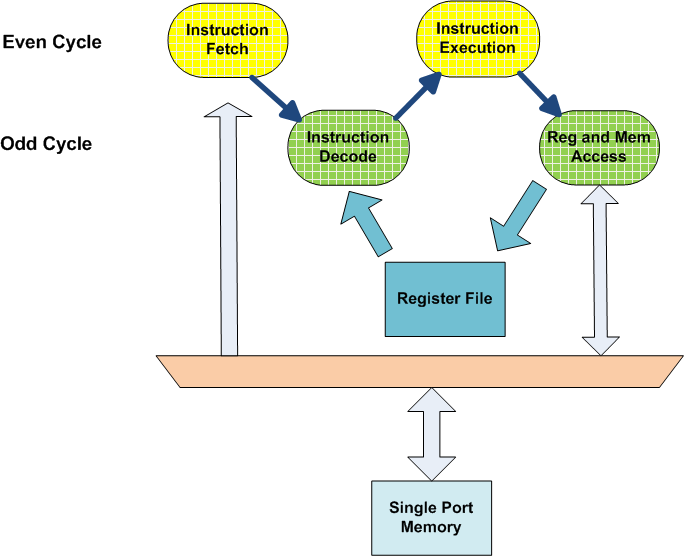
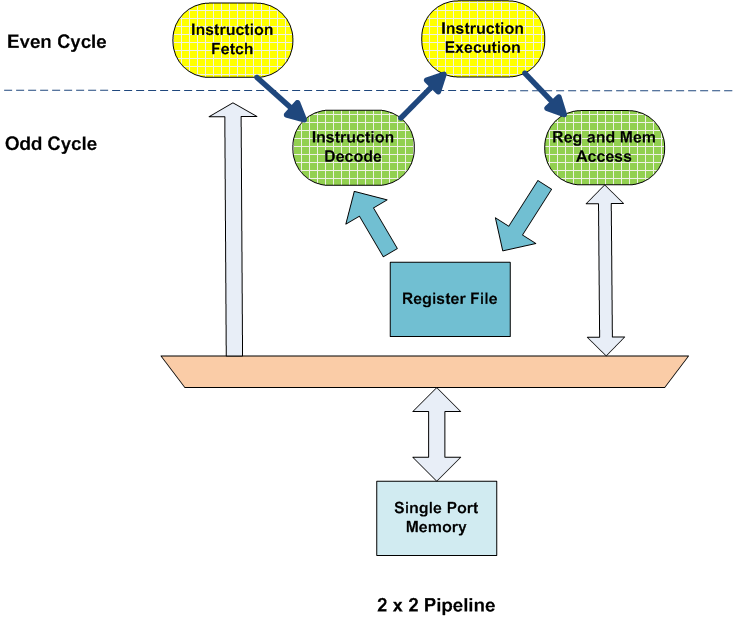
update README.md

Changed region(s): [[0.2149, 0.0, 1.0, 1.0], [0.0, 0.214, 0.1535, 0.2752], [0.0, 0.0306, 0.1535, 0.0917]]

diff --git a/README.md b/README.md
@@ -11,5 +11,10 @@ Reindeer's pipeline is composed of 4 stages:
   + Register Write Back and Memory Access (MEM)
 
 However, unlike traditional pipelines, Reindeer's pipeline stages are mapped to a 2 x 2 layout, as illustrated below:
+
 ![2 x 2 pipeline](https://github.com/PulseRain/Reindeer/raw/master/docs/pipeline_2x2.png "2 x 2 Pipeline")
+
+In the 2 x 2 layout, each stage is active every other clock cycle. For the even cycle, only IF and IE stages are active, while for the odd cycle, only ID and MEM stages are active. In this way, the Instruction Fetch and Memory Access always happen on different clock cycles, thus to avoid the structural hazard caused by the single port memory. 
+
+Thanks to using single port memory to store both code and data, the Reindeer soft CPU is quite portable and flexible across all FPGA platforms. Some FPGA platforms, like the Lattice iCE40 UltraPlus family, carry a large amount of SPRAM with very little EBR RAM. And those platforms will find themselves a good match with the PulseRain Reindeer when it comes to soft CPU.
 
